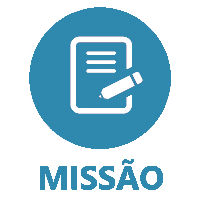
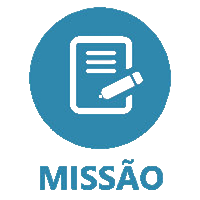
add botao modo escuro

diff --git a/css/global.css b/css/global.css
@@ -3,6 +3,7 @@
 :root {
     --fundo-principal: #f1f1f1;
     --fundo-conteudo: #fff;
+    --fundo-transparente: rgba(255, 255, 255, 0.9);
     --azul1: #2f88ad;
     --azul2: #255c74;
     --texto: #000;
@@ -22,10 +23,11 @@
 body {
     font-family: 'Trebuchet MS', 'Lucida Sans Unicode', 'Lucida Grande', 'Lucida Sans', Arial, sans-serif;
     background-color: var(--fundo-principal);
+    color: var(--texto);
     scroll-behavior: smooth;
 }
 
-/* LAYOUT */
+/* ------- LAYOUT ------- */
 #container {
     display: grid;
     grid-template-rows: auto 1fr auto;
@@ -51,7 +53,7 @@ footer {
     background-color: var(--fundo-conteudo);
 }
 
-/* MENU */
+/* ------- MENU ------- */
 .main-header {
     display: flex;
     flex-flow: row wrap;
@@ -77,6 +79,9 @@ footer {
 }
 
 .lista-nav {
+    display: flex;
+    flex-flow: column nowrap;
+    
     text-align: center;
     font-size: 18px;
     height: 0;
@@ -103,36 +108,30 @@ footer {
     width: 100%;
 }
 
+#btn-modo-escuro {
+    align-self: flex-end;
+    font-size: 14px;
+    text-align: left;
+    width: 50px;
+    border: 1px solid #999;
+    border-radius: 50px;
+    box-shadow: var(--sombra-fraca);
+    padding: 2px 5px;
+    transition: var(--transicao);
+}
+
+#lua {
+    display: none;
+}
+
 /* SUB-CLASS MENU */
 .mostrar {
-    height: 5.5em;
+    height: 7em;
     overflow: visible;
     opacity: 1;
 }
 
-/* BOTÕES */
-.botoes {
-    display: flex;
-    flex-flow: row nowrap;
-    justify-content: center;
-    gap: 5px;
-}
-
-.btn-projetos, .btn-cadastro, .btn-relatorio, .btn-voluntario, .btn-cadastrar, .btn-doacao, .btn-doacao-rapida {
-    border: 3px solid var(--azul2);
-}
-
-.btn-projetos, .btn-voluntario, .btn-doacao {
-    background-color: #fff;
-    color: var(--azul2);
-}
-
-.btn-cadastro, .btn-relatorio, .btn-cadastrar, .btn-doacao-rapida {
-    background-image: linear-gradient(to top, var(--azul2), var(--azul1));
-    color: #fff;
-}
-
-/* ELEMENTOS GLOBAIS */
+/* ------- ELEMENTOS GLOBAIS ------- */
 .lista li {
     border: 2px solid var(--azul2);
     border-radius: 15px;
@@ -167,7 +166,7 @@ footer {
     cursor: pointer;
 }
 
-/* FOOTER */
+/* ------- FOOTER ------- */
 #rodape {
     display: flex;
     flex-flow: column nowrap;
@@ -177,7 +176,29 @@ footer {
     padding: 10px 0px;
 }
 
-/* TAGS GLOBAIS */
+/* ------- BOTÕES ------- */
+.botoes {
+    display: flex;
+    flex-flow: row nowrap;
+    justify-content: center;
+    gap: 5px;
+}
+
+.btn-projetos, .btn-cadastro, .btn-relatorio, .btn-voluntario, .btn-cadastrar, .btn-doacao, .btn-doacao-rapida {
+    border: 3px solid var(--azul2);
+}
+
+.btn-projetos, .btn-voluntario, .btn-doacao {
+    background-color: var(--fundo-conteudo);
+    color: var(--azul2);
+}
+
+.btn-cadastro, .btn-relatorio, .btn-cadastrar, .btn-doacao-rapida {
+    background-image: linear-gradient(to top, var(--azul2), var(--azul1));
+    color: #fff;
+}
+
+/* ------- TAGS GLOBAIS ------- */
 button, span {
     font-size: 16px;
     font-weight: bolder;
@@ -238,10 +259,10 @@ p {
 }
 
 @media screen and (min-width: 768px) {
-    /* MENU */
+    /* ------- MENU ------- */
     .main-header {
         flex-flow: row nowrap;
-        padding: 10px 20px;
+        padding: 10px;
     }
     
     .btn-nav {
@@ -249,8 +270,11 @@ p {
     }
     
     .lista-nav {
+        display: flex;
+        flex-flow: row nowrap;
+        justify-content: space-around;
         height: auto;
-        width: 50%;
+        width: 60%;
         overflow: visible;
         opacity: 1;
     }
@@ -259,7 +283,7 @@ p {
         display: flex;
         flex-flow: row nowrap;
         justify-content: space-between;
-        gap: 5%;
+        gap: 30px;
         font-weight: bold;
         color: var(--azul1);
     }
@@ -268,12 +292,12 @@ p {
         transform: translateY(-5px);
     }
 
-    /* FOOTER */
+    /* ------- FOOTER ------- */
     #rodape {
         font-size: 1em;
     }
 
-    /* TAGS GLOBAIS */
+    /* ------- TAGS GLOBAIS ------- */
     h1 {
         font-size: 32px;
     }
@@ -292,6 +316,7 @@ p {
 }
 
 @media screen and (min-width: 1200px) {
+    /* ------- MENU ------- */
     .main-header {
         width: 80%;
     }

diff --git a/index.html b/index.html
@@ -26,6 +26,10 @@
                         <li><a href="paginas/cadastro.html">Cadastro</a></li>
                         <li class="btn-contato">Contato</li>
                     </ul>
+                    <button aria-label="Modo escuro" id="btn-modo-escuro"> 
+                        <i class="fa-solid fa-sun" id="sol" style="color: #FFD43B;"></i>
+                        <i class="fa-solid fa-moon" id="lua" style="color: #ffffff;"></i>
+                    </button>
                 </nav>
             </div>
         </header>
@@ -52,25 +56,24 @@
                 <div class="carrossel">
                     <article class="card-carrossel">
                         <picture>
-                            <source srcset="midia/missao.webp" type="image/webp">
-                            <source srcset="midia/missao.jpg" type="image/jpeg">
-                            <img src="midia/missao.jpg" alt="Missão" loading="lazy">
+                            <source srcset="midia/missao.png" type="image/png">
+                            <img src="midia/missao.png" alt="Missão" loading="lazy">
                         </picture>
                         <p>Promover o bem-estar social por meio de projetos transformadores e do engajamento de voluntários comprometidos com o impacto social.</p>
                     </article>
                     <article class="card-carrossel">
                         <picture>
                             <source srcset="midia/visao.webp" type="image/webp">
-                            <source srcset="midia/visao.jpg" type="image/jpeg">
-                            <img src="midia/visao.jpg" alt="Visão" loading="lazy">
+                            <source srcset="midia/visao.png" type="image/png">
+                            <img src="midia/visao.png" alt="Visão" loading="lazy">
                         </picture>
                         <p>Ser uma referência em inovação social, ampliando o alcance das ações e fortalecendo redes de solidariedade.</p>
                     </article>
                     <article class="card-carrossel">
                         <picture>
                             <source srcset="midia/valores.webp" type="image/webp">
-                            <source srcset="midia/valores.jpg" type="image/jpeg">
-                            <img src="midia/valores.jpg" alt="Valores" loading="lazy">
+                            <source srcset="midia/valores.png" type="image/png">
+                            <img src="midia/valores.png" alt="Valores" loading="lazy">
                         </picture>
                         <ul style="line-height: 25px;">
                             <li>Transparência</li>
@@ -122,7 +125,7 @@
                                     <h4>Financeiro</h4>
                                 </div>
                                 <div class="pessoa">
-                                    <div class="foto" style="background-color: lightgreen">IS</div>
+                                    <div class="foto" style="background-color: lightgreen;">IS</div>
                                     <h3>Isabela Souza</h3>
                                     <h4>Comunicação</h4>
                                 </div>

diff --git a/js/global.js b/js/global.js
@@ -20,3 +20,64 @@ links.forEach((link) => {
         alert('[Simulação] Arquivo baixado com sucesso!')
     })
 })
+
+/* MODO ESCURO */
+const btnModoEscuro = document.querySelector('#btn-modo-escuro')
+const sol = document.querySelector('#sol')
+const lua = document.querySelector('#lua')
+
+// Seleciona o elemento raiz do documento
+const root = document.documentElement   
+
+function modoClaro() {
+    root.style.setProperty('--fundo-principal', '#f1f1f1')
+    root.style.setProperty('--fundo-conteudo', '#fff')
+    root.style.setProperty('--fundo-transparente', 'rgba(255, 255, 255, 0.9)')
+    root.style.setProperty('--texto', '#000')
+    root.style.setProperty('--sombra-fraca', '0px 1px 2px rgba(0, 0, 0, 0.5)')
+    sol.style.display = 'block'
+    lua.style.display = 'none'
+    btnModoEscuro.style.backgroundColor = 'transparent'
+    btnModoEscuro.style.textAlign = 'left'
+
+    // Guarda o modo atual no armazenamento local 
+    localStorage.setItem('modo', 'claro')   
+}
+
+function modoEscuro() {
+    root.style.setProperty('--fundo-principal', '#000')
+    root.style.setProperty('--fundo-conteudo', '#0f0f0f')
+    root.style.setProperty('--fundo-transparente', 'rgba(0, 0, 0, 0.9)')
+    root.style.setProperty('--texto', '#fff')
+    root.style.setProperty('--sombra-fraca', '0px 1px 2px rgba(255, 255, 255, 0.5)')
+    sol.style.display = 'none'
+    lua.style.display = 'block'
+    btnModoEscuro.style.backgroundColor = '#222'
+    btnModoEscuro.style.textAlign = 'right'
+
+    // Guarda o modo atual no armazenamento local
+    localStorage.setItem('modo', 'escuro')
+}
+
+
+/* Verifica em qual modo está salvo no armazenamento ao ser clicado */
+if (btnModoEscuro) {
+    btnModoEscuro.addEventListener('click', () => {
+        const modoAtual = localStorage.getItem('modo')
+    
+        if (modoAtual === 'escuro') {
+            modoClaro()
+        } else {
+            modoEscuro()
+        }
+    })
+
+}
+
+/* Carrega modo salvo ao iniciar ou mudar de página */
+const modoSalvo = localStorage.getItem('modo')
+if (modoSalvo === 'escuro') {
+    modoEscuro()
+} else {
+    modoClaro()
+}

diff --git a/css/projetos.css b/css/projetos.css
@@ -17,6 +17,7 @@
 }
 
 .filtro {
+    color: var(--texto);
     border: 2px solid black;
     margin: 5px auto;
 }
@@ -35,7 +36,7 @@
 }
 
 .card-projeto:hover {
-    background-image: linear-gradient(to bottom, var(--azul1) 15%, #fefefe, #fff);
+    background-image: linear-gradient(to bottom, var(--azul1) 10%, var(--fundo-conteudo));
 }
 
 .card-projeto img {
@@ -57,7 +58,7 @@
     }
 
     .card-projeto:hover {
-        background-image: linear-gradient(to right, var(--azul1), #fefefe, #fff);
+        background-image: linear-gradient(to right, var(--azul1), var(--fundo-conteudo));
     }
     
     .card-projeto img {

diff --git a/paginas/doacao.html b/paginas/doacao.html
@@ -25,6 +25,10 @@
                         <li><a href="../paginas/projetos.html">Projetos</a></li>
                         <li><a href="../paginas/cadastro.html">Cadastro</a></li>
                     </ul>
+                    <button aria-label="Modo escuro" id="btn-modo-escuro"> 
+                        <i class="fa-solid fa-sun" id="sol" style="color: #FFD43B;"></i>
+                        <i class="fa-solid fa-moon" id="lua" style="color: #ffffff;"></i>
+                    </button>
                 </nav>
             </div>
         </header>

diff --git a/paginas/cadastro.html b/paginas/cadastro.html
@@ -25,6 +25,10 @@
                         <li><a href="../paginas/projetos.html">Projetos</a></li>
                         <li><a href="../index.html#contato">Contato</a></li>
                     </ul>
+                    <button aria-label="Modo escuro" id="btn-modo-escuro"> 
+                        <i class="fa-solid fa-sun" id="sol" style="color: #FFD43B;"></i>
+                        <i class="fa-solid fa-moon" id="lua" style="color: #ffffff;"></i>
+                    </button>
                 </nav>
             </div>
         </header>

diff --git a/paginas/projetos.html b/paginas/projetos.html
@@ -25,6 +25,10 @@
                         <li><a href="../paginas/cadastro.html">Cadastro</a></li>
                         <li><a href="../index.html#contato">Contato</a></li>
                     </ul>
+                    <button aria-label="Modo escuro" id="btn-modo-escuro"> 
+                        <i class="fa-solid fa-sun" id="sol" style="color: #FFD43B;"></i>
+                        <i class="fa-solid fa-moon" id="lua" style="color: #ffffff;"></i>
+                    </button>
                 </nav>
             </div>
         </header>

diff --git a/css/home.css b/css/home.css
@@ -21,7 +21,7 @@
     height: 45vh;
     max-height: 250px;
     text-align: center;
-    background-color: rgba(255, 255, 255, 0.9);
+    background-color: var(--fundo-transparente);
     border-radius: 5px;
     border: var(--borda);
     box-shadow: var(--sombra-forte);
@@ -130,6 +130,7 @@
 .foto {
     align-items: center;
     font-weight: bold;
+    color: black;
     height: 75px;
     width: 75px;
     border-radius: 50%;

diff --git a/css/cadastro.css b/css/cadastro.css
@@ -13,6 +13,8 @@ fieldset {
 input, select {
     font-weight: bold;
     width: 98%;
+    color: var(--texto);
+    background-color: var(--fundo-conteudo);
     border-radius: 5px;
     padding: 5px;
     margin: 5px;
